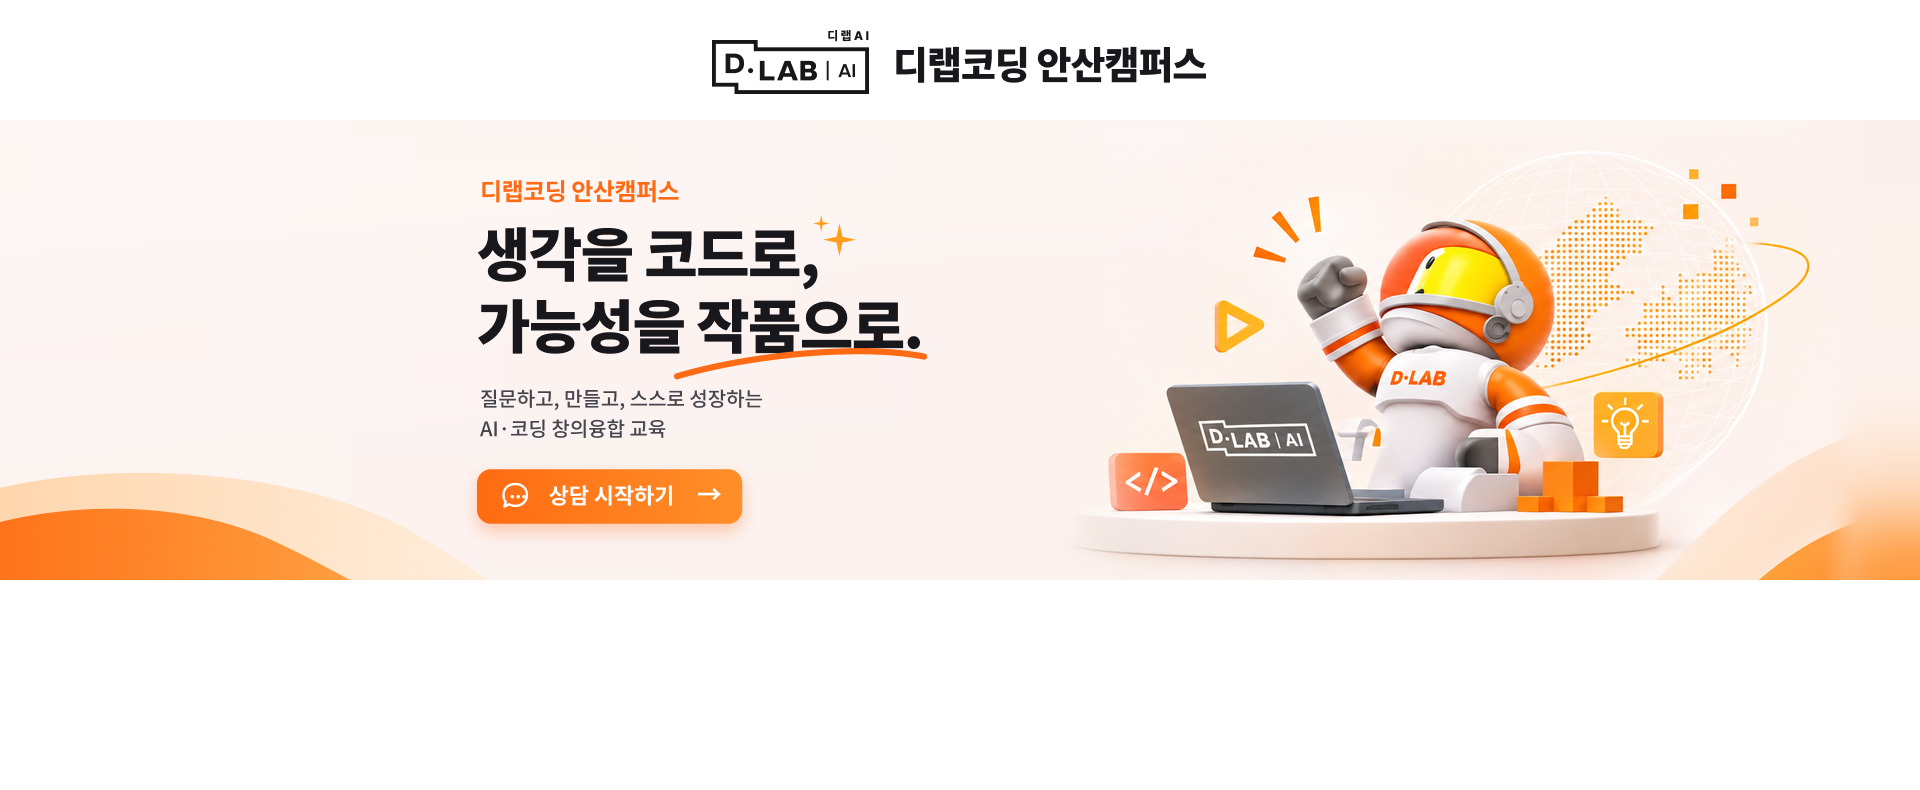
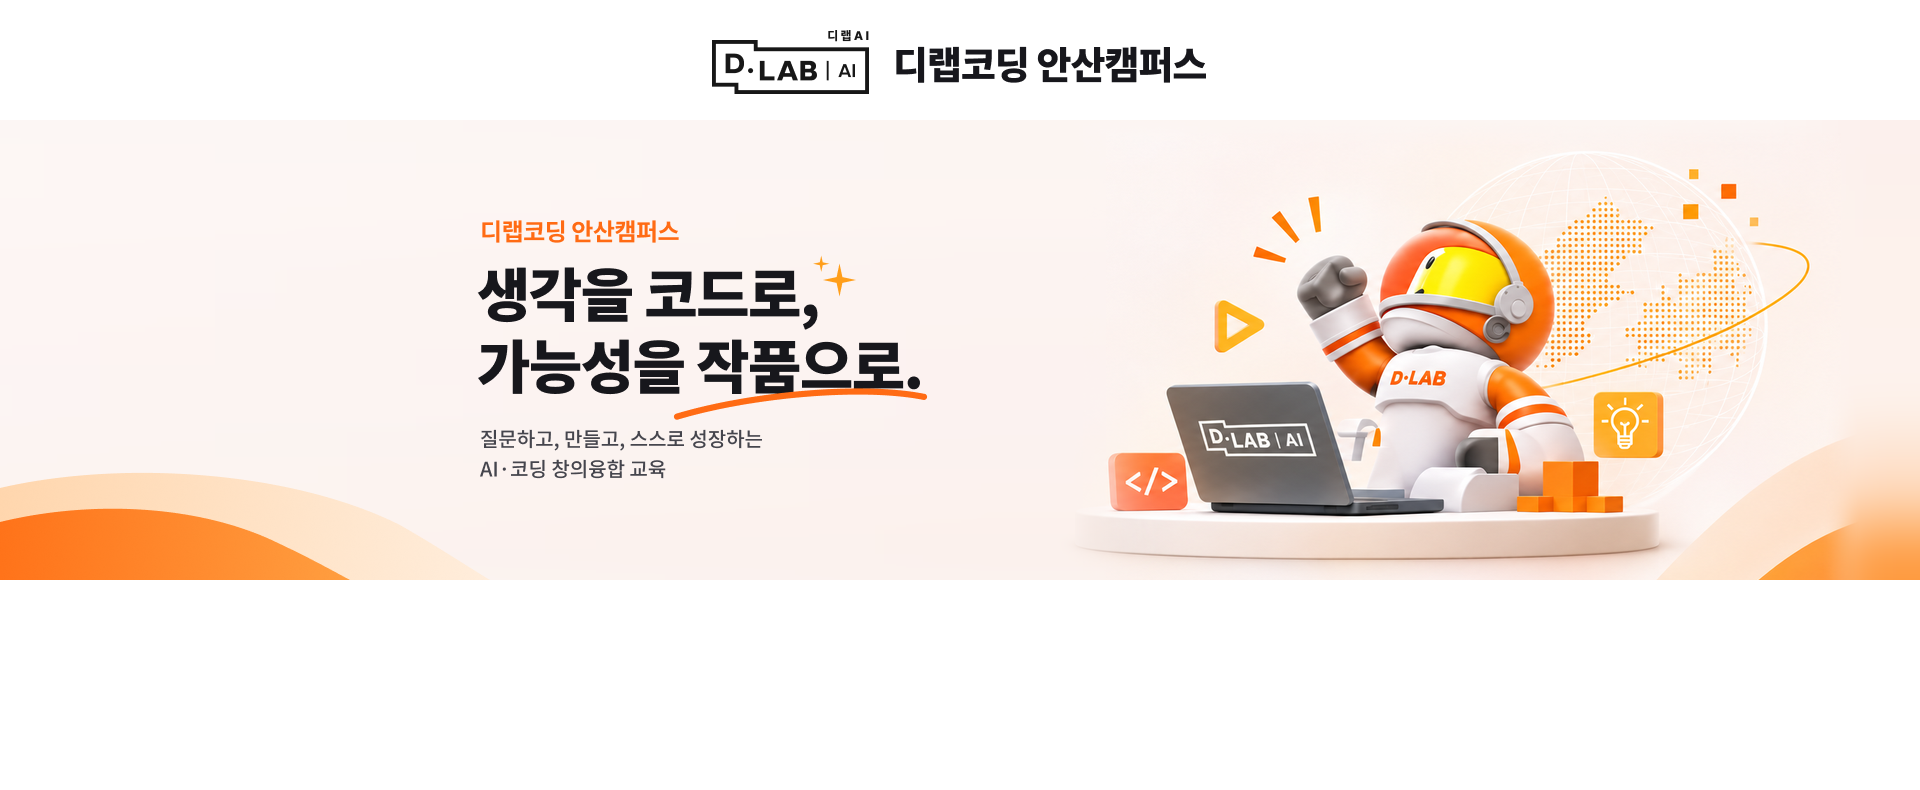
방법 1: 스킨 배경에서 그림 버튼 제거, 캐릭터·상담 위젯 포함 위젯 7개로 교체

Changed region(s): [[0.25, 0.2127, 0.5, 0.6987]]

diff --git a/index.html b/index.html
@@ -27,21 +27,31 @@
   <h1>디랩코딩 안산캠퍼스 블로그 이미지</h1>
   <p class="lead">네이버 블로그 홈페이지형 꾸미기에 쓰는 배너와 위젯 이미지입니다. 아래 주소를 그대로 쓰면 됩니다.</p>
 
-  <h2>배너</h2>
-  <div class="banner"><img src="img/banner.png" alt="배너"></div>
+  <h2>스킨 배경 (1920×790)</h2>
+  <div class="banner"><img src="img/skin-bg.png" alt="스킨 배경"></div>
   <p>이미지 주소: <code id="banner-url"></code></p>
+  <h2>적용 미리보기</h2>
+  <div class="banner"><img src="img/preview.png" alt="미리보기"></div>
 
-  <h2>메뉴 위젯 (위젯직접등록용 코드)</h2>
+  <h2>위젯 7개 (위젯직접등록용 코드, 130×170)</h2>
   <p class="lead">각 코드의 <code>연결할주소</code> 부분을 카테고리·채널 주소로 바꿔서 네이버 위젯직접등록에 붙여 넣으세요.</p>
   <div class="grid" id="widgets"></div>
 </main>
 <script>
   const base = location.href.replace(/index\.html$/, '').replace(/[?#].*$/, '');
-  document.getElementById('banner-url').textContent = base + 'img/banner.png';
-  const W = [['1-academy', '학원 안내'], ['2-semester', '학기 안내'], ['3-news', '학원 소식'], ['4-instagram', '인스타그램'], ['5-kakao', '카카오톡']];
-  document.getElementById('widgets').innerHTML = W.map(([k, name]) => {
-    const code = `<a href="연결할주소" target="_blank"><img src="${base}img/widget-${k}-2x.png" width="170" height="170" border="0" alt="${name}"></a>`;
-    return `<div class="card"><img src="img/widget-${k}-2x.png" alt="${name}"><b>${name}</b>
+  document.getElementById('banner-url').textContent = base + 'img/skin-bg.png';
+  const W = [
+    ['1-home', '블로그 홈 (캐릭터)', 'https://blog.naver.com/dlabansan', '_top'],
+    ['2-consult', '상담 시작하기', '상담주소', '_blank'],
+    ['3-academy', '학원 안내', '연결할주소', '_top'],
+    ['4-semester', '학기 안내', '연결할주소', '_top'],
+    ['5-news', '학원 소식', '연결할주소', '_top'],
+    ['6-instagram', '인스타그램', '인스타그램주소', '_blank'],
+    ['7-kakao', '카카오톡', '카카오톡채널주소', '_blank'],
+  ];
+  document.getElementById('widgets').innerHTML = W.map(([k, name, href, tgt]) => {
+    const code = `<a href="${href}" target="${tgt}"><img src="${base}img/widget-${k}-2x.png" width="130" height="170" border="0" alt="${name}"></a>`;
+    return `<div class="card"><img src="img/widget-${k}-2x.png" alt="${name}" style="width:130px;height:170px"><b>${name}</b>
       <input readonly value='${code.replace(/'/g, '&#39;')}'><button onclick="navigator.clipboard.writeText(this.previousElementSibling.value);this.textContent='복사했어요'">코드 복사</button></div>`;
   }).join('');
 </script>
